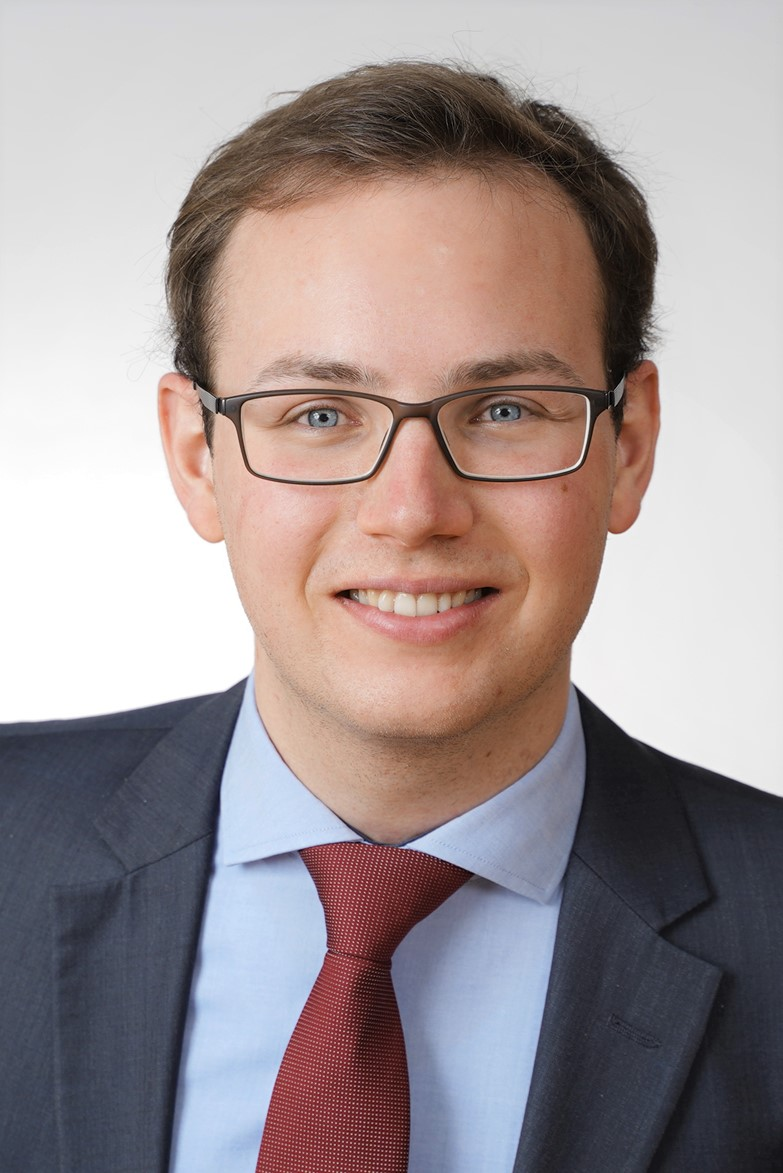
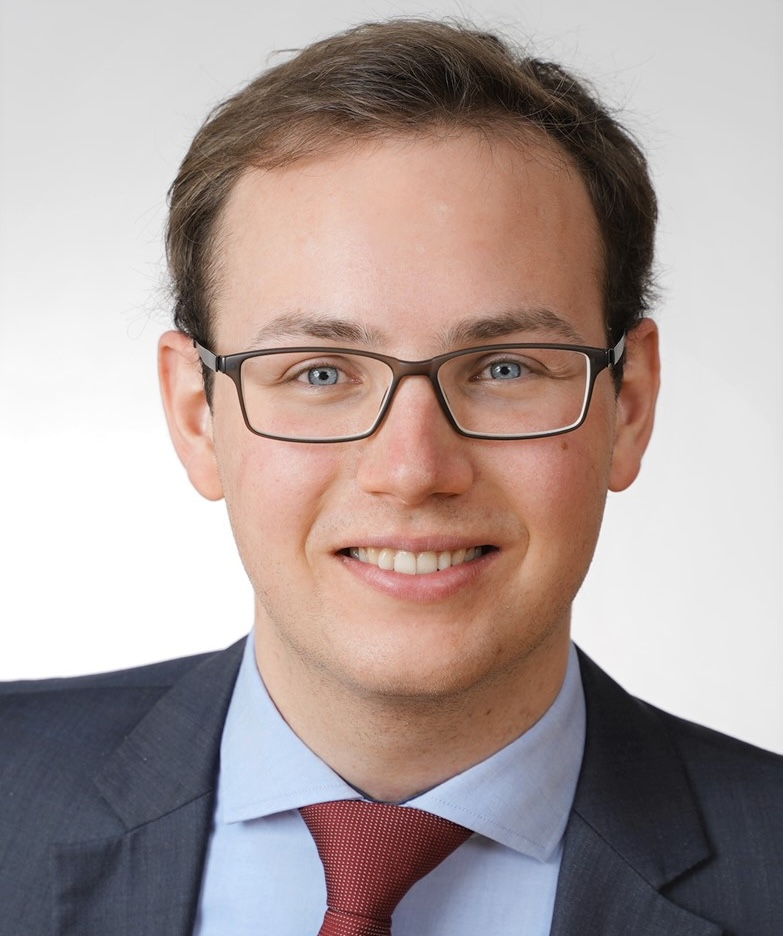
cropping

diff --git a/_pages/team.md b/_pages/team.md
@@ -121,7 +121,7 @@ nav_order: 2
 <div class="profile float-left" >
 <figure>
   <picture>
-    <img src="/assets/img/RummeleinJohannes_headshot.jpg" class="img-fluid z-depth-1 thumbnail center-img" width="100%" height="auto" alt="khairnar_headshot.jpg" onerror="this.onerror=null; $('.responsive-img-srcset').remove();">
+    <img src="/assets/img/RummeleinJohannes_headshot_cropped.jpg" class="img-fluid z-depth-1 thumbnail center-img" width="100%" height="auto" alt="khairnar_headshot.jpg" onerror="this.onerror=null; $('.responsive-img-srcset').remove();">
   </picture>
 </figure>
 
